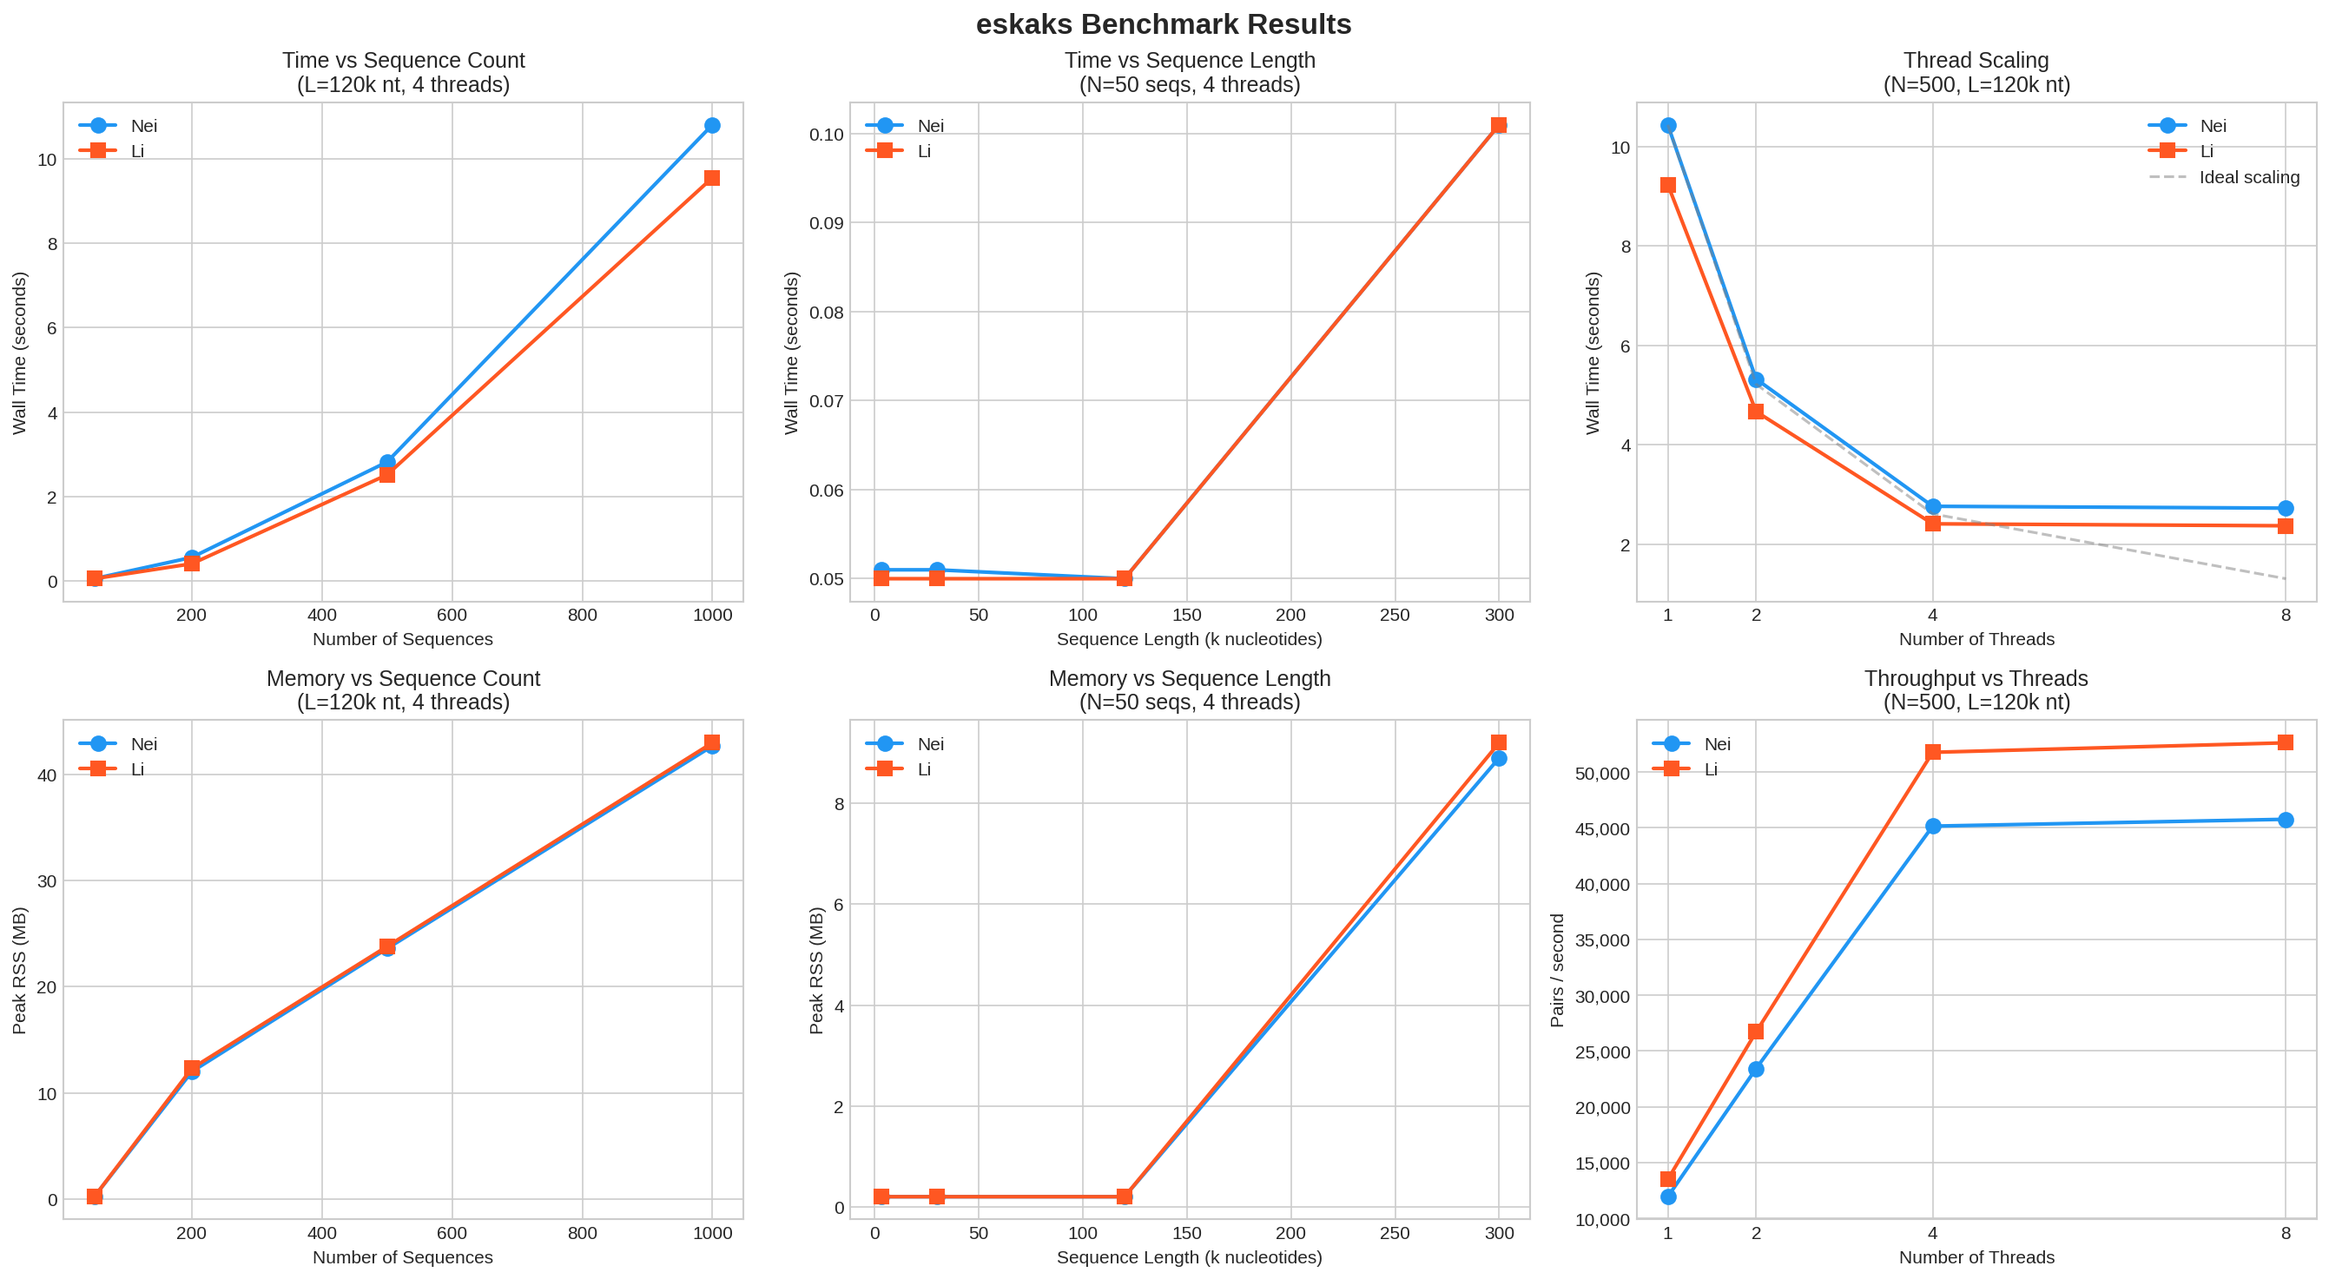
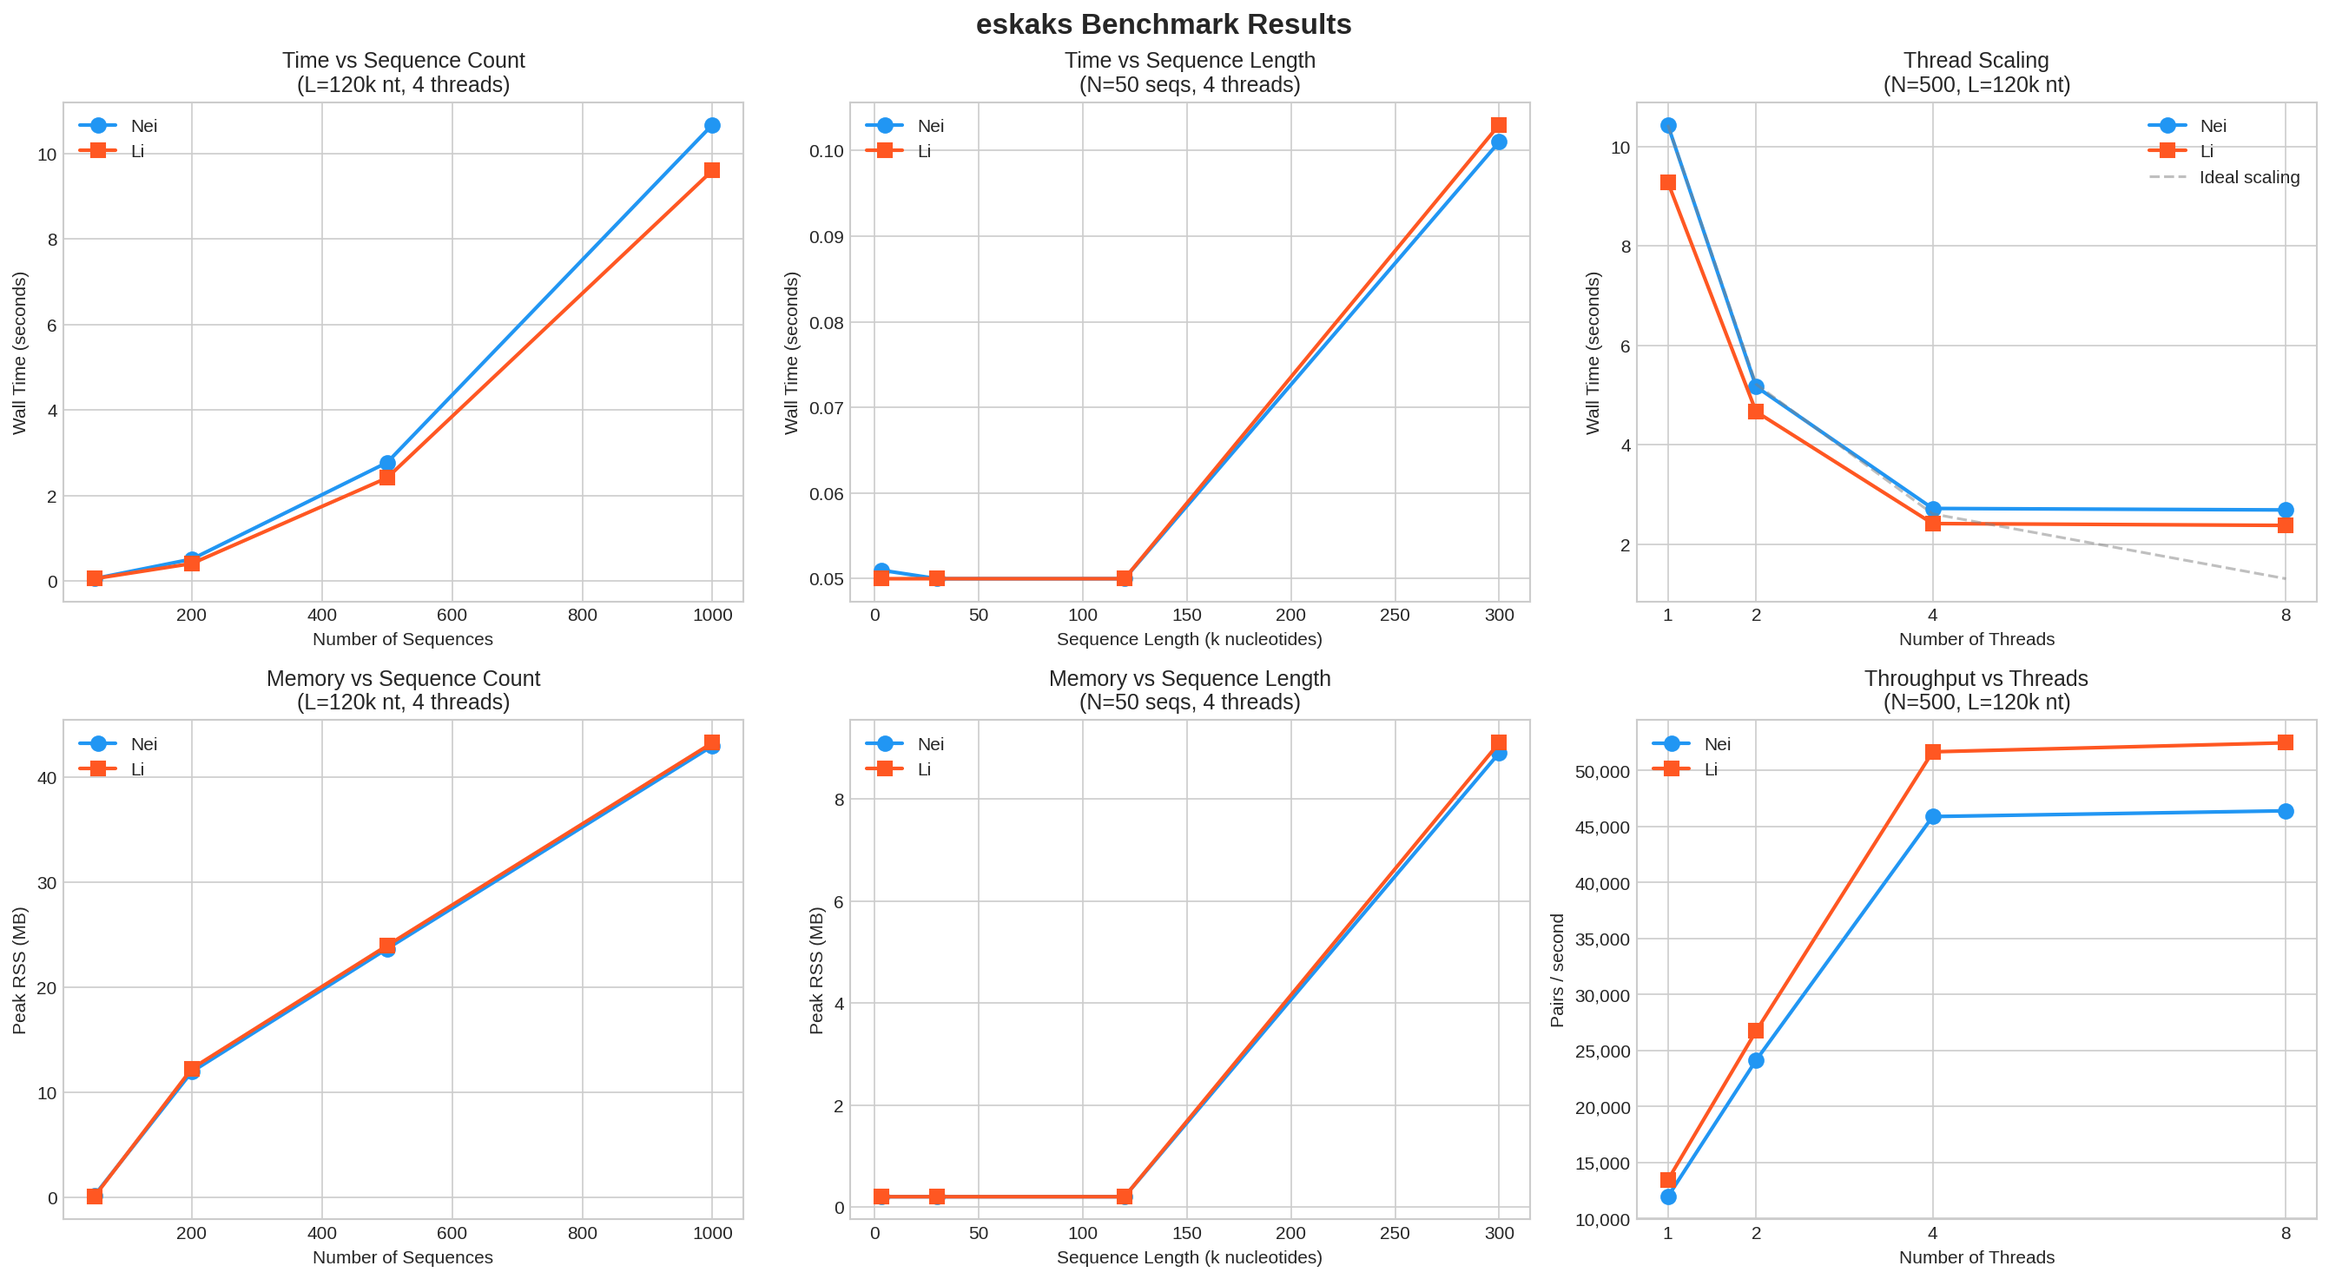
Optimize hot loops and eliminate per-row allocation overhead
Li model: Add chunk-level all-identical fast path using XOR check.
When all 4 codons in a chunk are identical (~81% of chunks with 5%
mutation rate), use L1-resident same_l table (1.5KB) instead of the
288KB main data table, avoiding L2 cache pressure.

Output functions: Replace for_each_with + per-iteration Vec allocations
with for_each_init + generation counter. Thread-local buffers are reused
across rows, eliminating N×17KB of allocations. Generation counter
provides O(1) cache invalidation vs O(n_u) memset.

Also fix unit test imports to use fasta_to_codon_indices (upstream
removed seq_to_dna5 and dna5_to_codon_indices).

https://review.ai/code/session_01Y2eVC2jsEQ4bDk11BBZE5b

diff --git a/src/output.rs b/src/output.rs
@@ -45,41 +45,54 @@ pub fn write_pairwise(
         }
     });
 
-    (0..ids.len()).into_par_iter().for_each_with(tx, |s, i| {
-        let u_i = uidx_by_id[i];
-        // Lazy per-row cache: only compute unique pairs as needed
-        let mut row_cache: Vec<DsDn> = vec![DsDn { dn: 0.0, ds: 0.0 }; n_u];
-        let mut computed: Vec<bool> = vec![false; n_u];
-        computed[u_i] = true; // self-pair is (0.0, 0.0) by default
+    // Use for_each_init to reuse thread-local buffers across rows.
+    // Generation counter avoids clearing the computed array each iteration (O(1) vs O(n_u)).
+    (0..ids.len()).into_par_iter().for_each_init(
+        || {
+            (
+                tx.clone(),
+                vec![DsDn { dn: 0.0, ds: 0.0 }; n_u],
+                vec![0u32; n_u],  // generation map
+                0u32,             // current generation
+                String::with_capacity(1024 * 64),
+            )
+        },
+        |(sender, row_cache, gen_map, cur_gen, local_buffer), i| {
+            *cur_gen = cur_gen.wrapping_add(1);
+            let gen = *cur_gen;
+            let u_i = uidx_by_id[i];
+            row_cache[u_i] = DsDn { dn: 0.0, ds: 0.0 };
+            gen_map[u_i] = gen;
 
-        let mut local_buffer = String::with_capacity(1024 * 8);
+            for j in (i + 1)..ids.len() {
+                let u_j = uidx_by_id[j];
+                if gen_map[u_j] != gen {
+                    row_cache[u_j] = compute_pair(u_i, u_j);
+                    gen_map[u_j] = gen;
+                }
+                let result = row_cache[u_j];
+                let ratio = if result.ds == 0.0 {
+                    if result.dn == 0.0 { 0.0 } else { f64::INFINITY }
+                } else {
+                    result.dn / result.ds
+                };
 
-        for j in (i + 1)..ids.len() {
-            let u_j = uidx_by_id[j];
-            if !computed[u_j] {
-                row_cache[u_j] = compute_pair(u_i, u_j);
-                computed[u_j] = true;
+                let _ = writeln!(local_buffer, "{}\t{}\t{:.6}\t{:.6}\t{:.6}",
+                    &ids[i], &ids[j], result.dn, result.ds, ratio);
+
+                if local_buffer.len() > 1024 * 32 {
+                    sender.send(std::mem::take(local_buffer))
+                        .expect("Writer thread channel closed unexpectedly");
+                }
             }
-            let result = row_cache[u_j];
-            let ratio = if result.ds == 0.0 {
-                if result.dn == 0.0 { 0.0 } else { f64::INFINITY }
-            } else {
-                result.dn / result.ds
-            };
-
-            let _ = writeln!(local_buffer, "{}\t{}\t{:.6}\t{:.6}\t{:.6}",
-                &ids[i], &ids[j], result.dn, result.ds, ratio);
-
-            if local_buffer.len() > 1024 * 4 {
-                s.send(std::mem::take(&mut local_buffer))
+            if !local_buffer.is_empty() {
+                sender.send(std::mem::take(local_buffer))
                     .expect("Writer thread channel closed unexpectedly");
             }
-        }
-        if !local_buffer.is_empty() {
-            s.send(local_buffer).expect("Writer thread channel closed unexpectedly");
-        }
-        pb_write.inc((ids.len() - 1 - i) as u64);
-    });
+            pb_write.inc((ids.len() - 1 - i) as u64);
+        },
+    );
+    drop(tx); // close original sender so writer thread sees EOF
 
     writer_thread.join()
         .expect("Writer thread panicked")
@@ -121,49 +134,62 @@ pub fn write_lineage(
 
     (0..ids.len())
         .into_par_iter()
-        .for_each_with(tx, |s, i| {
-            let u_i = uidx_by_id[i];
-            // Lazy per-row cache
-            let mut row_cache: Vec<DsDn> = vec![DsDn { dn: 0.0, ds: 0.0 }; n_u];
-            let mut computed: Vec<bool> = vec![false; n_u];
-            computed[u_i] = true;
+        .for_each_init(
+            || {
+                (
+                    tx.clone(),
+                    vec![DsDn { dn: 0.0, ds: 0.0 }; n_u],
+                    vec![0u32; n_u],
+                    0u32,
+                    vec![(0.0f64, 0.0f64, 0usize); num_lineages],
+                )
+            },
+            |(sender, row_cache, gen_map, cur_gen, local_aggr), i| {
+                *cur_gen = cur_gen.wrapping_add(1);
+                let gen = *cur_gen;
+                let u_i = uidx_by_id[i];
+                row_cache[u_i] = DsDn { dn: 0.0, ds: 0.0 };
+                gen_map[u_i] = gen;
 
-            let mut local_aggr: Vec<(f64, f64, usize)> = vec![(0.0, 0.0, 0); num_lineages];
+                // Reset lineage accumulators
+                for a in local_aggr.iter_mut() { *a = (0.0, 0.0, 0); }
 
-            for j in 0..ids.len() {
-                if i == j { continue; }
-                let u_j = uidx_by_id[j];
-                if !computed[u_j] {
-                    row_cache[u_j] = compute_pair(u_i, u_j);
-                    computed[u_j] = true;
+                for j in 0..ids.len() {
+                    if i == j { continue; }
+                    let u_j = uidx_by_id[j];
+                    if gen_map[u_j] != gen {
+                        row_cache[u_j] = compute_pair(u_i, u_j);
+                        gen_map[u_j] = gen;
+                    }
+                    let result = row_cache[u_j];
+
+                    if result.dn.is_finite() && result.ds.is_finite() {
+                        let lin_idx = lineage_indices[j];
+                        local_aggr[lin_idx].0 += result.dn;
+                        local_aggr[lin_idx].1 += result.ds;
+                        local_aggr[lin_idx].2 += 1;
+                    }
                 }
-                let result = row_cache[u_j];
 
-                if result.dn.is_finite() && result.ds.is_finite() {
-                    let lin_idx = lineage_indices[j];
-                    local_aggr[lin_idx].0 += result.dn;
-                    local_aggr[lin_idx].1 += result.ds;
-                    local_aggr[lin_idx].2 += 1;
+                let mut block = String::new();
+                for (lin_idx, &(sum_dn, sum_ds, count)) in local_aggr.iter().enumerate() {
+                    if count == 0 { continue; }
+                    let mean_dn = sum_dn / count as f64;
+                    let mean_ds = sum_ds / count as f64;
+                    let ratio = if mean_ds == 0.0 {
+                        if mean_dn == 0.0 { 0.0 } else { f64::INFINITY }
+                    } else {
+                        mean_dn / mean_ds
+                    };
+                    let _ = writeln!(block, "{}\t{}\t{:.6}\t{:.6}\t{:.6}",
+                        &ids[i], &lineage_names[lin_idx], mean_dn, mean_ds, ratio);
                 }
-            }
-
-            let mut block = String::new();
-            for (lin_idx, &(sum_dn, sum_ds, count)) in local_aggr.iter().enumerate() {
-                if count == 0 { continue; }
-                let mean_dn = sum_dn / count as f64;
-                let mean_ds = sum_ds / count as f64;
-                let ratio = if mean_ds == 0.0 {
-                    if mean_dn == 0.0 { 0.0 } else { f64::INFINITY }
-                } else {
-                    mean_dn / mean_ds
-                };
-                let _ = writeln!(block, "{}\t{}\t{:.6}\t{:.6}\t{:.6}",
-                    &ids[i], &lineage_names[lin_idx], mean_dn, mean_ds, ratio);
-            }
-            if !block.is_empty() {
-                s.send(block).expect("Writer thread channel closed unexpectedly");
-            }
-        });
+                if !block.is_empty() {
+                    sender.send(block).expect("Writer thread channel closed unexpectedly");
+                }
+            },
+        );
+    drop(tx);
 
     writer_thread.join()
         .expect("Writer thread panicked")

diff --git a/src/models/li.rs b/src/models/li.rs
@@ -236,8 +236,13 @@ impl Default for CodonPairData {
 /// 9 scattered locations across 288KB of SoA arrays.
 /// The array is inline (not a nested Box) so Box<LiTables> = single heap allocation,
 /// eliminating one pointer indirection in the hot loop.
+///
+/// `same_l` is a compact 64-entry table (1.5KB) for identical-codon fast path:
+/// when a == b, only l[] values are non-zero (ti=tv=0). This table fits in L1 cache,
+/// avoiding the 288KB main table lookup for ~95% of codons in typical alignments.
 pub struct LiTables {
     data: [CodonPairData; 4096],
+    same_l: [[f64; 3]; 64],
 }
 
 #[inline(always)]
@@ -245,12 +250,19 @@ fn idx(i: usize, j: usize) -> usize {
     i * 64 + j
 }
 
-/// Accumulate a single codon pair's data into running sums.
+/// Accumulate a single codon pair's data into running sums (different codons).
 #[inline(always)]
 fn accumulate(d: &CodonPairData, l_sum: &mut [f64; 3], ti_sum: &mut [f64; 3], tv_sum: &mut [f64; 3]) {
     l_sum[0] += d.l[0]; l_sum[1] += d.l[1]; l_sum[2] += d.l[2];
     ti_sum[0] += d.ti[0]; ti_sum[1] += d.ti[1]; ti_sum[2] += d.ti[2];
     tv_sum[0] += d.tv[0]; tv_sum[1] += d.tv[1]; tv_sum[2] += d.tv[2];
+}
+
+/// Fast path for identical codons: only l[] values are non-zero (ti=tv=0).
+/// The same_l table (1.5KB) fits in L1 cache, avoiding the 288KB main table.
+#[inline(always)]
+fn accumulate_same_l(l_vals: &[f64; 3], l_sum: &mut [f64; 3]) {
+    l_sum[0] += l_vals[0]; l_sum[1] += l_vals[1]; l_sum[2] += l_vals[2];
 }
 
 impl LiTables {
@@ -346,12 +358,19 @@ impl LiTables {
             }
         }
 
+        // Build L1-cache-resident same-codon table from diagonal of main table
+        for i in 0..64 {
+            tables.same_l[i] = tables.data[idx(i, i)].l;
+        }
+
         tables
     }
 
     /// Computes Ka and Ks for a pair of sequences encoded as codon indices.
     /// Uses AoS layout + chunk-of-4 processing + unsafe unchecked indexing
-    /// for maximum throughput on long sequences (133k+ codons).
+    /// with same-codon fast path: ~95% of codons are identical in typical
+    /// alignments and only need the L1-cache-resident same_l table (1.5KB)
+    /// instead of the full 288KB data table.
     #[inline]
     pub fn compute_pair(&self, codon_indices1: &[u8], codon_indices2: &[u8]) -> (f64, f64) {
         let mut l_sum = [0.0; 3];
@@ -359,8 +378,9 @@ impl LiTables {
         let mut tv_sum = [0.0; 3];
 
         let data = &self.data;
+        let same_l = &self.same_l;
 
-        // Process 4 codons at a time for branch-free fast path
+        // Process 4 codons at a time
         let chunks1 = codon_indices1.chunks_exact(4);
         let chunks2 = codon_indices2.chunks_exact(4);
         let rem1 = chunks1.remainder();
@@ -372,8 +392,20 @@ impl LiTables {
             let b1 = ch2[0] as usize; let b2 = ch2[1] as usize;
             let b3 = ch2[2] as usize; let b4 = ch2[3] as usize;
 
-            // Fast path: if all 8 codon indices are < 64 (valid), skip per-codon checks
-            if (a1 | a2 | a3 | a4 | b1 | b2 | b3 | b4) < INVALID_CODON as usize {
+            // Chunk-level all-identical check: with ~95% identical codons,
+            // ~81% of chunks have all 4 pairs identical (0.95^4).
+            // These use only the L1-resident same_l table (1.5KB),
+            // completely skipping the 288KB data table.
+            if ((a1 ^ b1) | (a2 ^ b2) | (a3 ^ b3) | (a4 ^ b4)) == 0 {
+                // SAFETY: all identical means all < 64 (valid codons only reach here)
+                unsafe {
+                    accumulate_same_l(same_l.get_unchecked(a1), &mut l_sum);
+                    accumulate_same_l(same_l.get_unchecked(a2), &mut l_sum);
+                    accumulate_same_l(same_l.get_unchecked(a3), &mut l_sum);
+                    accumulate_same_l(same_l.get_unchecked(a4), &mut l_sum);
+                }
+            } else if (a1 | a2 | a3 | a4 | b1 | b2 | b3 | b4) < INVALID_CODON as usize {
+                // Some differ, all valid: use full 288KB table
                 // SAFETY: all indices verified < 64, so flat index < 4096
                 unsafe {
                     accumulate(data.get_unchecked(a1 * 64 + b1), &mut l_sum, &mut ti_sum, &mut tv_sum);
@@ -382,7 +414,7 @@ impl LiTables {
                     accumulate(data.get_unchecked(a4 * 64 + b4), &mut l_sum, &mut ti_sum, &mut tv_sum);
                 }
             } else {
-                // Slow path: check each codon individually
+                // Some invalid codons: check individually
                 for (&c1, &c2) in ch1.iter().zip(ch2.iter()) {
                     let n1 = c1 as usize;
                     let n2 = c2 as usize;
@@ -471,14 +503,14 @@ impl LiTables {
 #[cfg(test)]
 mod tests {
     use super::*;
-    use crate::codon::{dna5_to_codon_indices, seq_to_dna5};
+    use crate::codon::fasta_to_codon_indices;
     use crate::models::Model;
 
     const EPSILON: f64 = 1e-4;
 
     fn li(seq1: &[u8], seq2: &[u8]) -> (f64, f64) {
-        let idx1 = dna5_to_codon_indices(&seq_to_dna5(seq1), Model::Li);
-        let idx2 = dna5_to_codon_indices(&seq_to_dna5(seq2), Model::Li);
+        let idx1 = fasta_to_codon_indices(seq1, Model::Li);
+        let idx2 = fasta_to_codon_indices(seq2, Model::Li);
         LiTables::new().compute_pair(&idx1, &idx2)
     }
 

diff --git a/src/codon.rs b/src/codon.rs
@@ -62,14 +62,12 @@ mod tests {
 
     /// Helper: convert an ASCII codon string to a Nei model codon index.
     fn nei_index(codon: &[u8; 3]) -> u8 {
-        let dna5 = seq_to_dna5(codon);
-        dna5_to_codon_indices(&dna5, Model::Nei)[0]
+        fasta_to_codon_indices(codon, Model::Nei)[0]
     }
 
     /// Helper: convert an ASCII codon string to a Li model codon index.
     fn li_index(codon: &[u8; 3]) -> u8 {
-        let dna5 = seq_to_dna5(codon);
-        dna5_to_codon_indices(&dna5, Model::Li)[0]
+        fasta_to_codon_indices(codon, Model::Li)[0]
     }
 
     #[test]
@@ -116,15 +114,13 @@ mod tests {
 
     #[test]
     fn ambiguous_base_gives_invalid_codon() {
-        let dna5 = seq_to_dna5(b"ATN");
-        let indices = dna5_to_codon_indices(&dna5, Model::Nei);
+        let indices = fasta_to_codon_indices(b"ATN", Model::Nei);
         assert_eq!(indices[0], INVALID_CODON);
     }
 
     #[test]
     fn multiple_codons() {
-        let dna5 = seq_to_dna5(b"ATGTTT");
-        let indices = dna5_to_codon_indices(&dna5, Model::Nei);
+        let indices = fasta_to_codon_indices(b"ATGTTT", Model::Nei);
         assert_eq!(indices.len(), 2);
         assert_eq!(indices[0], 11); // ATG = Met
         assert_eq!(indices[1], 0);  // TTT = Phe
@@ -133,8 +129,7 @@ mod tests {
     #[test]
     fn trailing_bases_ignored() {
         // 7 bases → only 2 complete codons
-        let dna5 = seq_to_dna5(b"ATGTTTG");
-        let indices = dna5_to_codon_indices(&dna5, Model::Nei);
+        let indices = fasta_to_codon_indices(b"ATGTTTG", Model::Nei);
         assert_eq!(indices.len(), 2);
     }
 }

diff --git a/src/models/nei.rs b/src/models/nei.rs
@@ -111,13 +111,13 @@ pub fn calculate_syn_nonsyn_from_indices(codon_indices1: &[u8], codon_indices2: 
 #[cfg(test)]
 mod tests {
     use super::*;
-    use crate::codon::{dna5_to_codon_indices, seq_to_dna5};
+    use crate::codon::fasta_to_codon_indices;
     use crate::models::Model;
 
     /// Helper: run the Nei model on two ASCII DNA sequences.
     fn nei(seq1: &[u8], seq2: &[u8]) -> (f64, f64) {
-        let idx1 = dna5_to_codon_indices(&seq_to_dna5(seq1), Model::Nei);
-        let idx2 = dna5_to_codon_indices(&seq_to_dna5(seq2), Model::Nei);
+        let idx1 = fasta_to_codon_indices(seq1, Model::Nei);
+        let idx2 = fasta_to_codon_indices(seq2, Model::Nei);
         calculate_syn_nonsyn_from_indices(&idx1, &idx2)
     }
 
